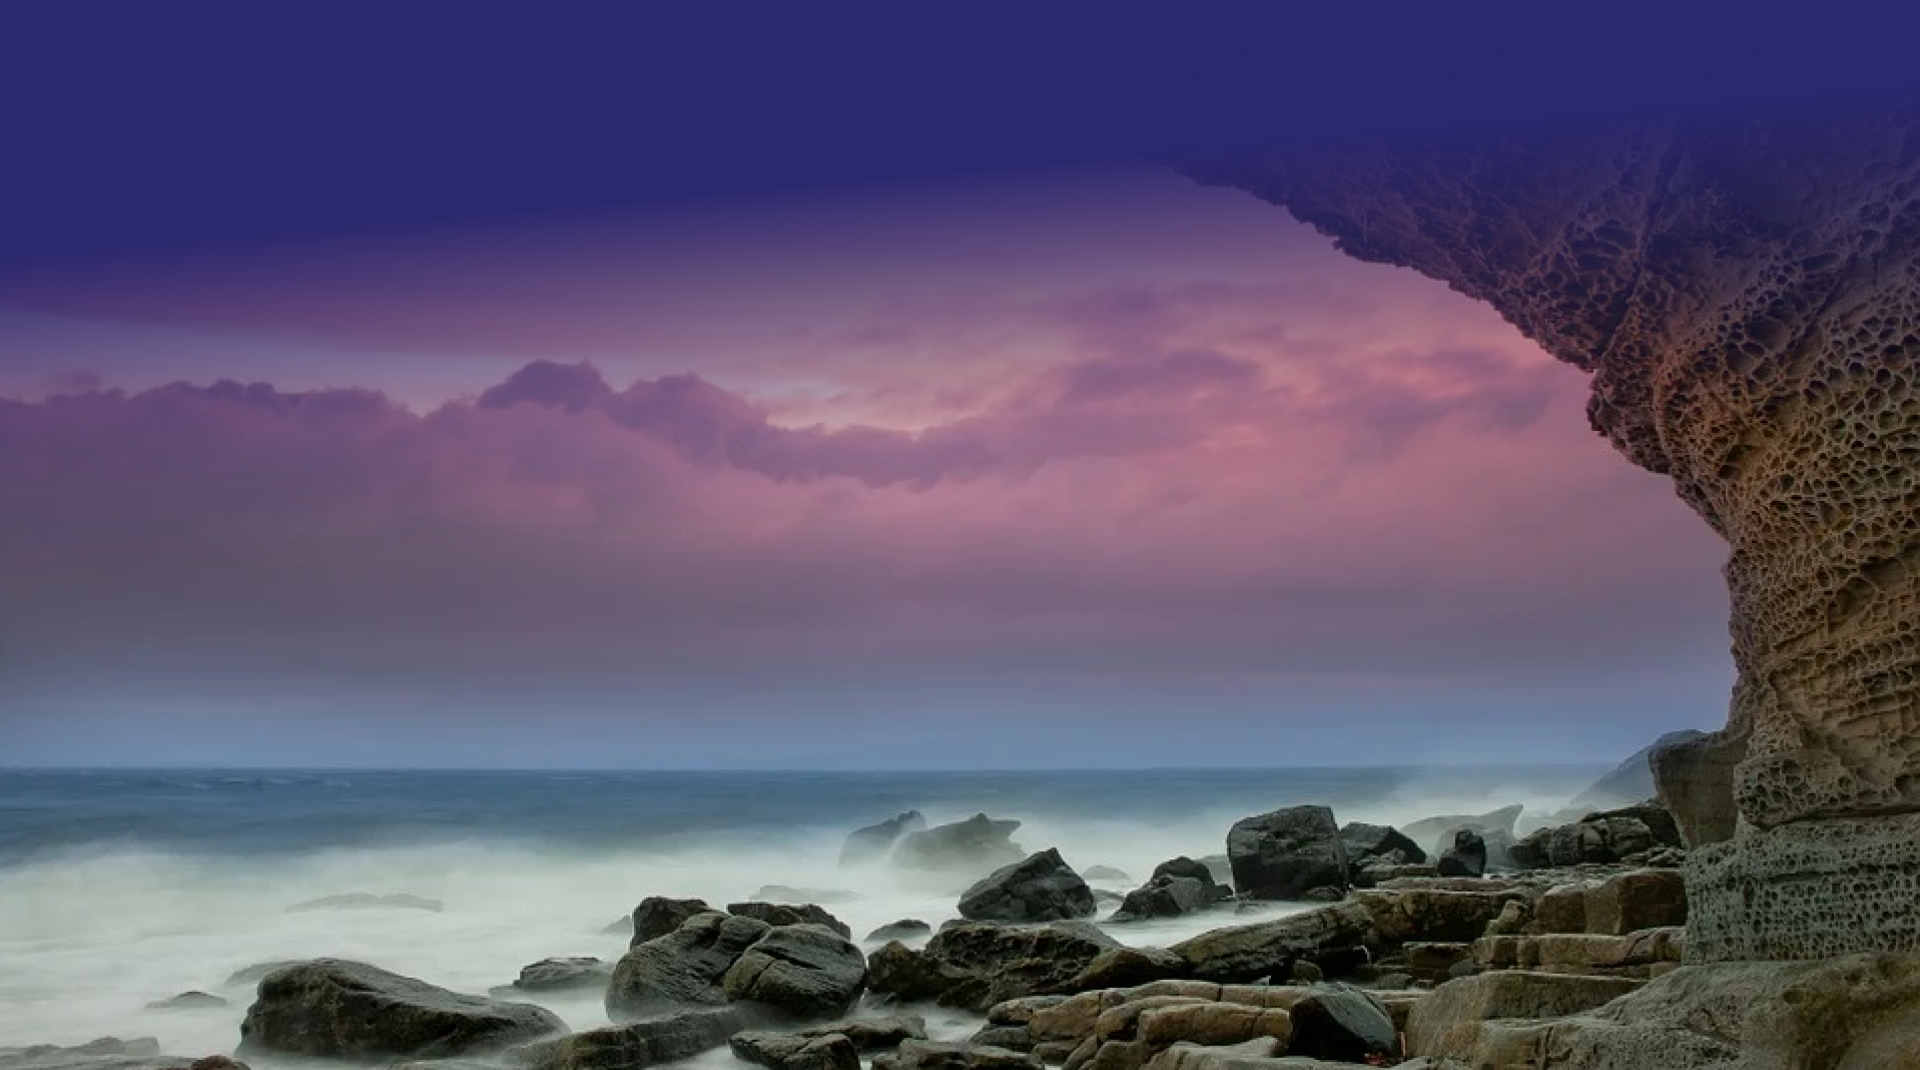
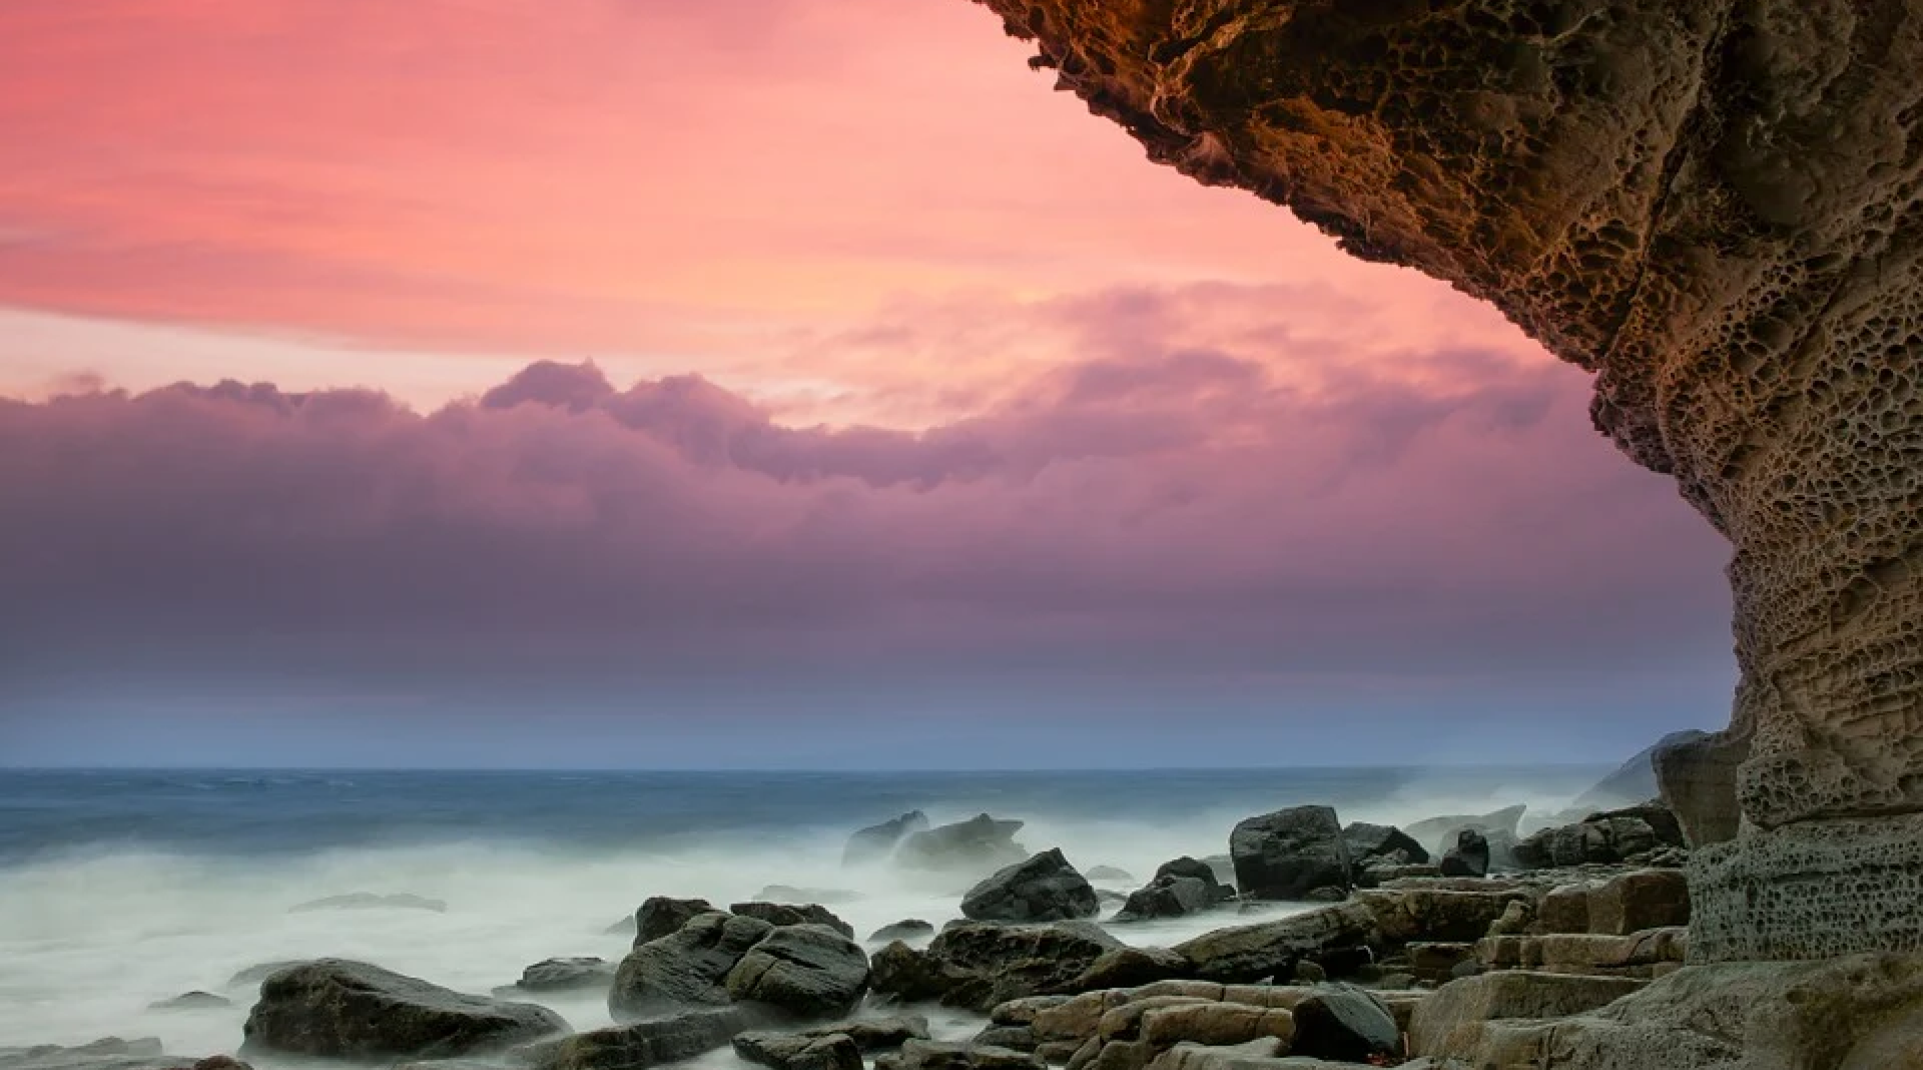
main_header_bg수정 -sunshine

diff --git a/css/style.css b/css/style.css
@@ -11,11 +11,21 @@ body{
 .wrap_vh{
     height: 100vh;
 }
-header{
-    background: url("../images/img_header_bg.png") center/cover;
-    height: 100vh;
-}
 
+header{
+    position: relative;
+    height: 100vh;
+    background: linear-gradient(#2A286E,25%, rgba(63, 40, 100, 0));
+}
+header::before {
+    content:"";
+    display: block;
+    width: 100vw;
+    height: 100vh;
+    background: url("../images/img_header_bg.png") no-repeat center/cover;
+    position: absolute;
+    z-index: -1;
+}
 a, a:link{
     text-decoration: none;
     color: white;
